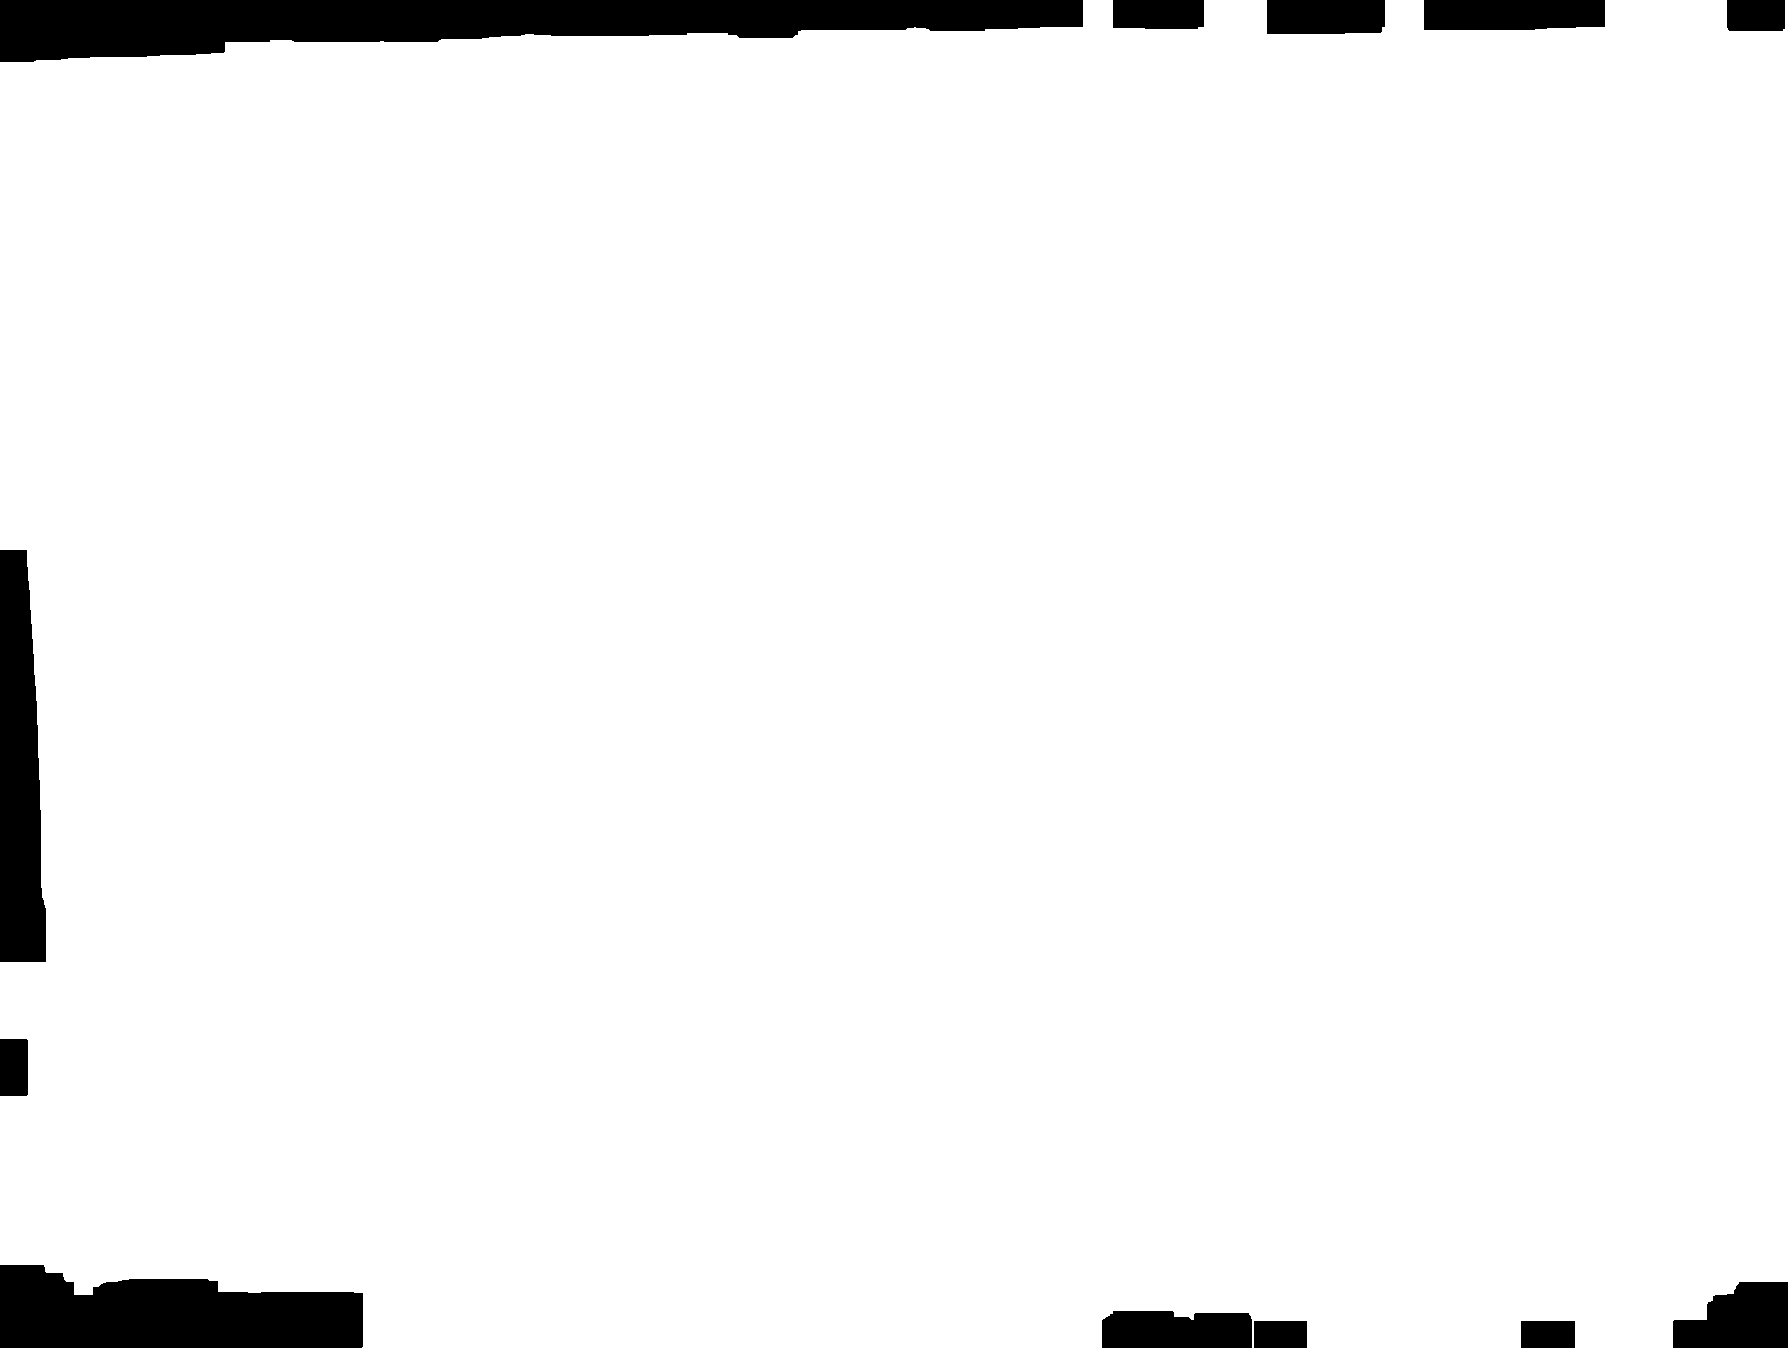
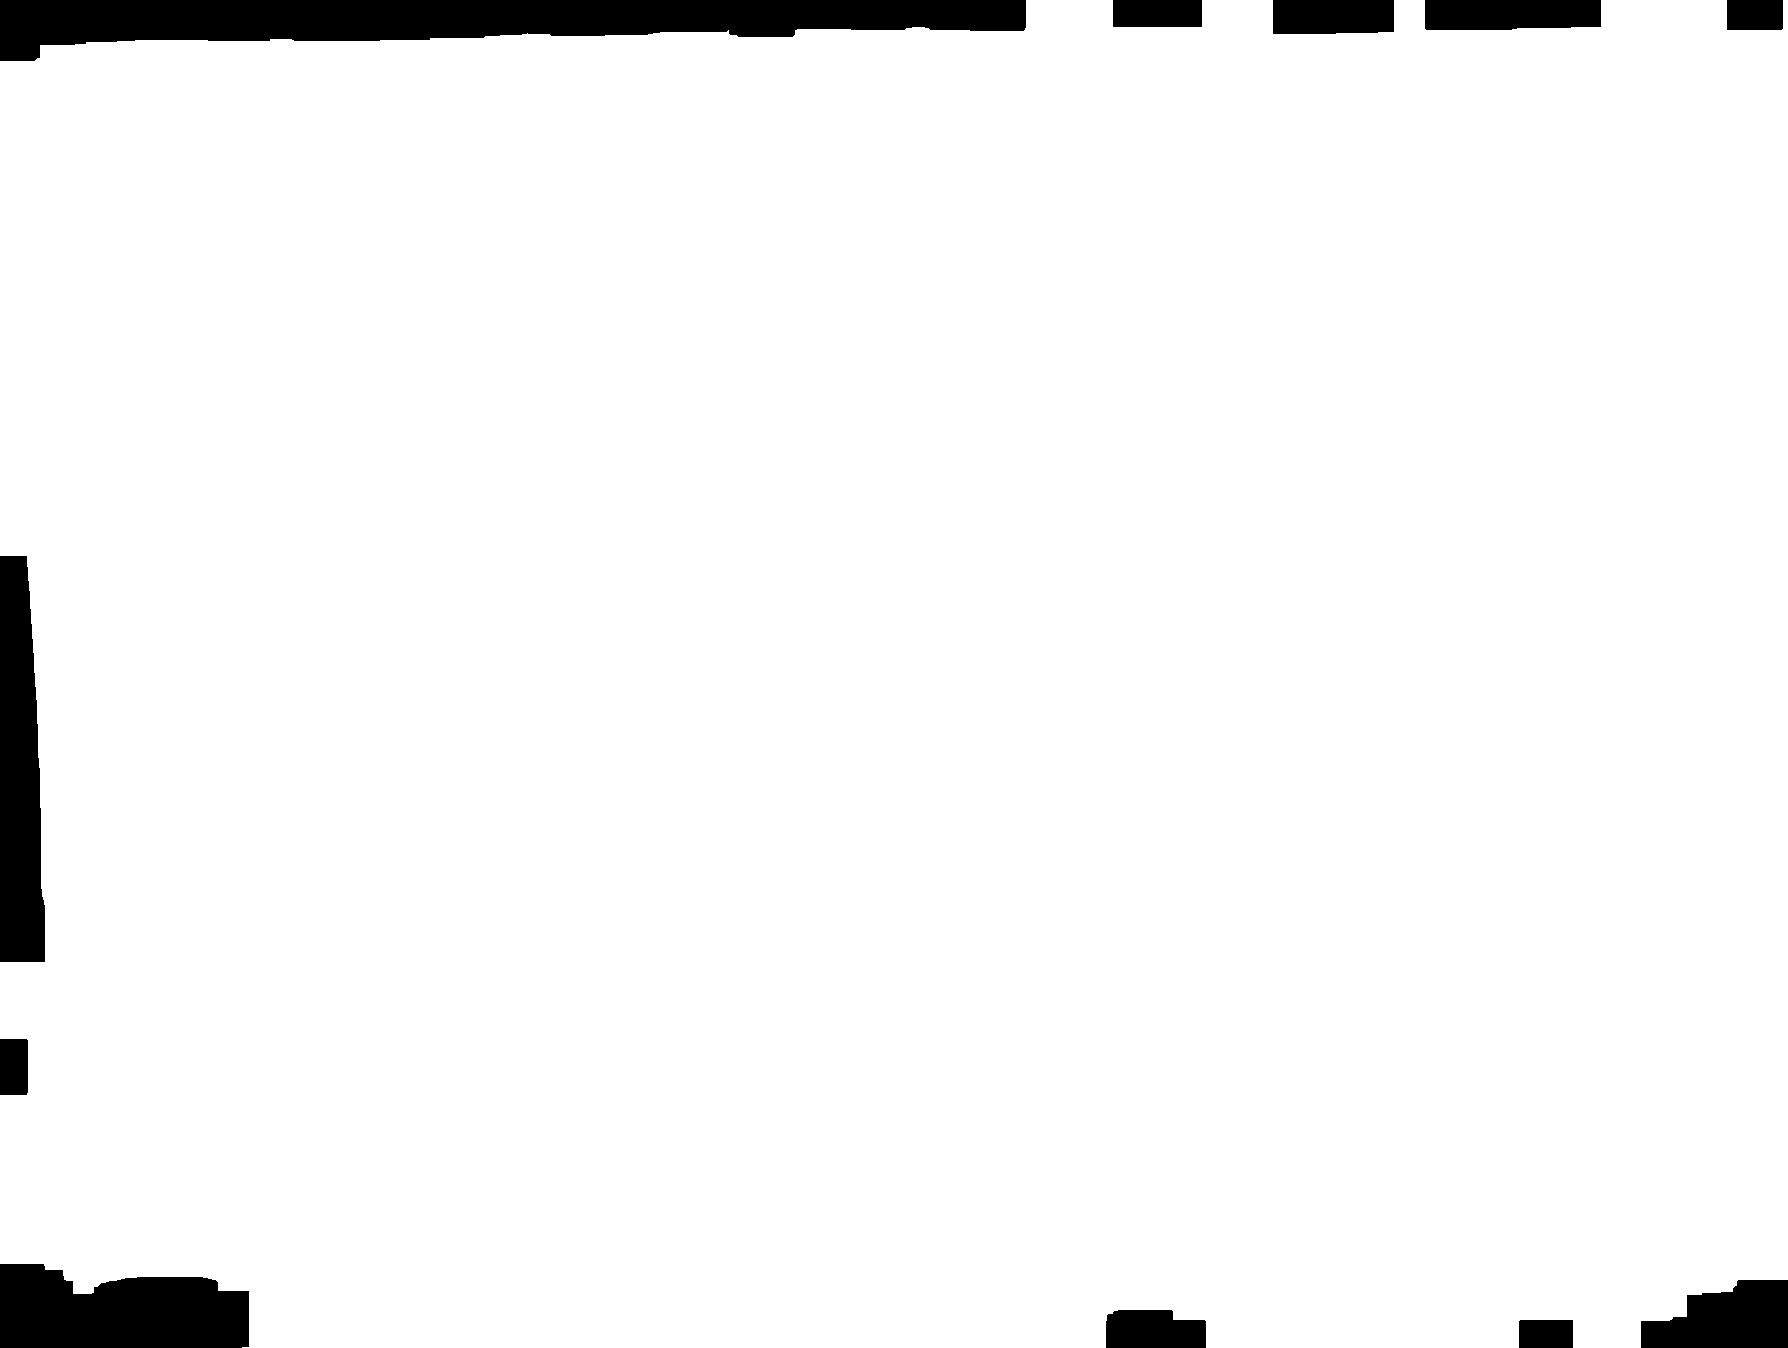
kinda works? two issues: (1) fly flies and still is detected as a new fly I suspect this is due to FLIGHT_DISTANCE_THRESHOLD (2) fly flies and swaps ideas, i suspect this is due to  (3) fly flies, moves a little and swaps and/or becomes detected as a new fly

diff --git a/src/2D_Detection/WatershedAlgorithm/watershed_pathing_backlit_hungarian.py b/src/2D_Detection/WatershedAlgorithm/watershed_pathing_backlit_hungarian.py
@@ -210,12 +210,13 @@ MIN_LIFETIME = 5 # min frames before an object is considered valid
 MAX_PATH_LENGTH = 50 # max points in path history
 
 MAX_CONTOUR_AREA = 1100
-STOP_SEC = 300
+STOP_SEC = 10
 
 # Velocity / flight parameters
-VELOCITY_ALPHA = 0.4 # EMA weight for new velocity samples (higher = more reactive)
+VELOCITY_ALPHA = 0.8 # EMA weight for new velocity samples (higher = more reactive)
 FLYING_SPEED_THRESHOLD = 15 # px/frame; above this a fly is labelled as flying
 FLIGHT_DISTANCE_THRESHOLD = 100 # px: relaxed threshold for predicted-position matching
+DISTANCE_THRESHOLD = 50 # walking threshold
 
 CURRENT_TOTAL_FLIES = 0
 
@@ -229,11 +230,10 @@ for vid_name in os.listdir(BASE_PATH):
 
     vid_path = f"{BASE_PATH}/{vid_name}"
 
-    DISTANCE_THRESHOLD = 10
     min_contour_area = 350
 
     # Make them the same to avoid spawning new ids
-    RECOVERY_THRESHOLD = FLIGHT_DISTANCE_THRESHOLD
+    RECOVERY_THRESHOLD = DISTANCE_THRESHOLD
 
     cap = cv2.VideoCapture(vid_path)
     name = vid_path.split('/')[-1]
@@ -242,6 +242,7 @@ for vid_name in os.listdir(BASE_PATH):
     frame_width = int(cap.get(cv2.CAP_PROP_FRAME_WIDTH))
     frame_height = int(cap.get(cv2.CAP_PROP_FRAME_HEIGHT))
     fps = int(cap.get(cv2.CAP_PROP_FPS))
+    # print(f"FPS: {fps}") 119 FPS
     total_frames = int(cap.get(cv2.CAP_PROP_FRAME_COUNT))
     output_path = (f'./2D_Detection/WatershedAlgorithm/Output/Velocity/CalitVids/{name}_pwsBacklitV2_{'debug' if DEBUG else ''}.mp4')
     fourcc = cv2.VideoWriter_fourcc(*'mp4v')
@@ -453,6 +454,7 @@ for vid_name in os.listdir(BASE_PATH):
                 object_paths[next_object_id] = deque([(cx, cy)], maxlen=MAX_PATH_LENGTH)
                 object_velocities[next_object_id] = (0.0, 0.0)
                 last_centers[next_object_id] = (cx, cy)
+                print(f"  [NEW FLY] fly ID {next_object_id} at ({cx}, {cy})")
                 next_object_id += 1
 
         # Step 3: Clean up lost buffer
